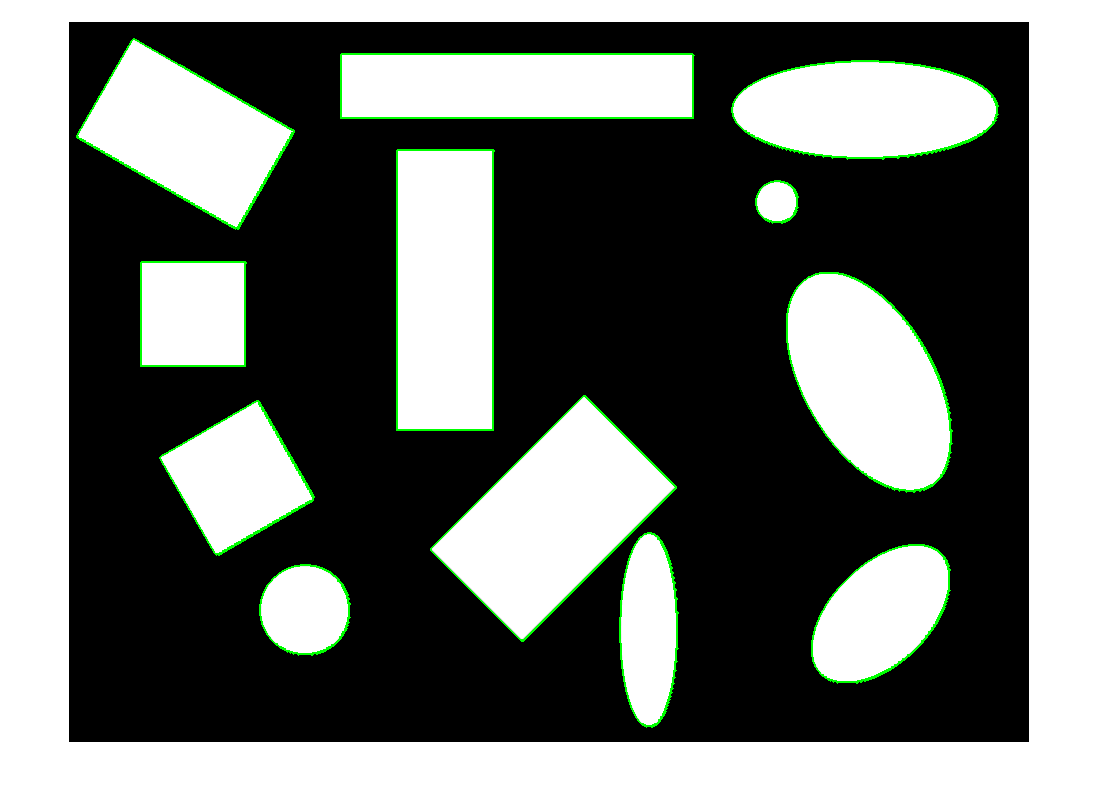
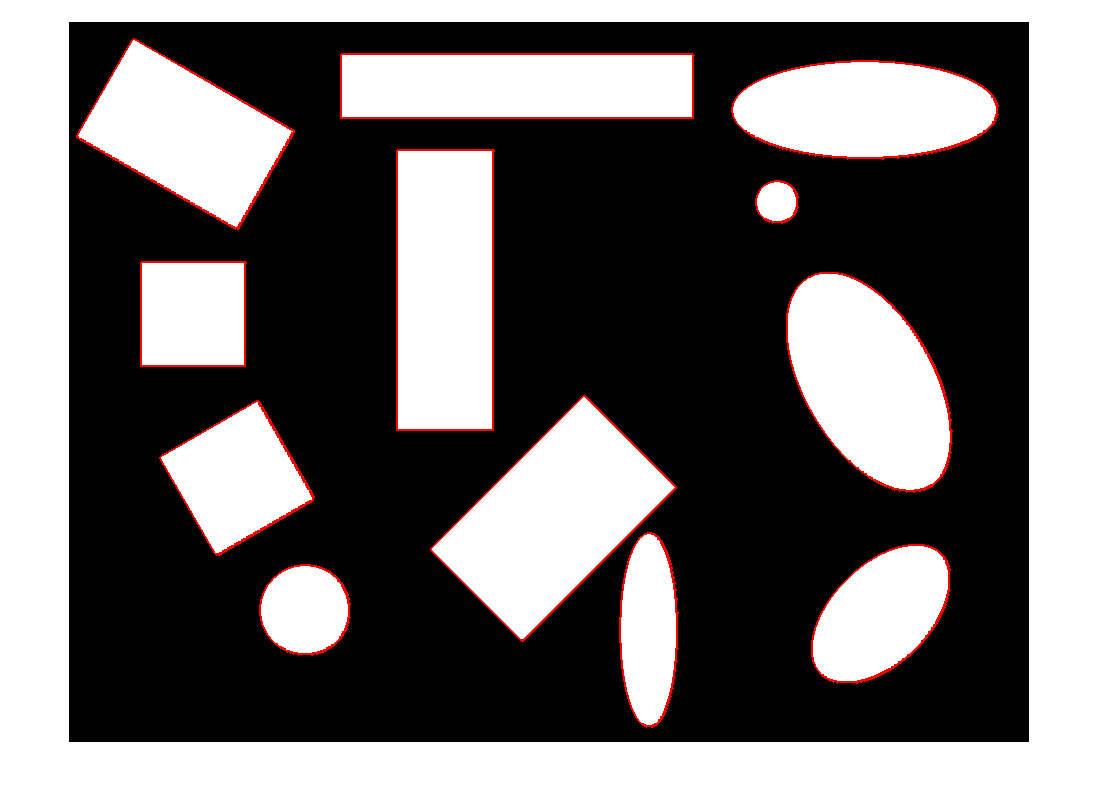
changed to red
changed to red

diff --git a/Lab4/shapeRecognizer.m b/Lab4/shapeRecognizer.m
@@ -36,8 +36,8 @@ function circularities = shapeRecognizer(img)
         elog = sqrt(eigValMax/eigValMin);
         
         %% Trace the perimter and find the length 
-        perimeter = bwtraceboundary(img, [max(labeledShapes(labeledShapes(:,min(c)) == i)), min(c)], 'NE');
-        %plot(perimeter(:,2), perimeter(:,1), 'g', 'LineWidth', 2);
+        perimeter = bwtraceboundary(img, [max(find(labeledShapes(:,min(c)) == i)), min(c)], 'NE');
+        %plot(perimeter(:,2), perimeter(:,1), 'r', 'LineWidth', 2);
         psum = 1;
         for j = 2:size(perimeter, 1)
             previous = perimeter(j-1, :);
